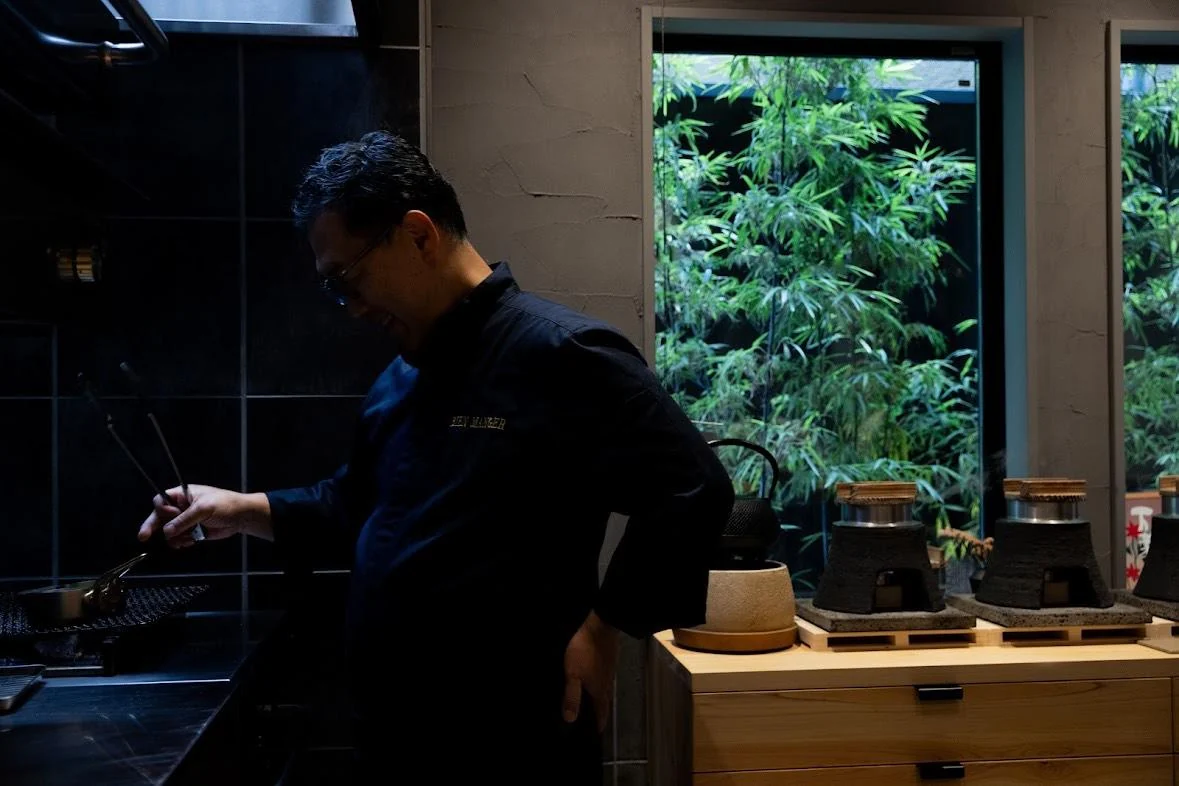
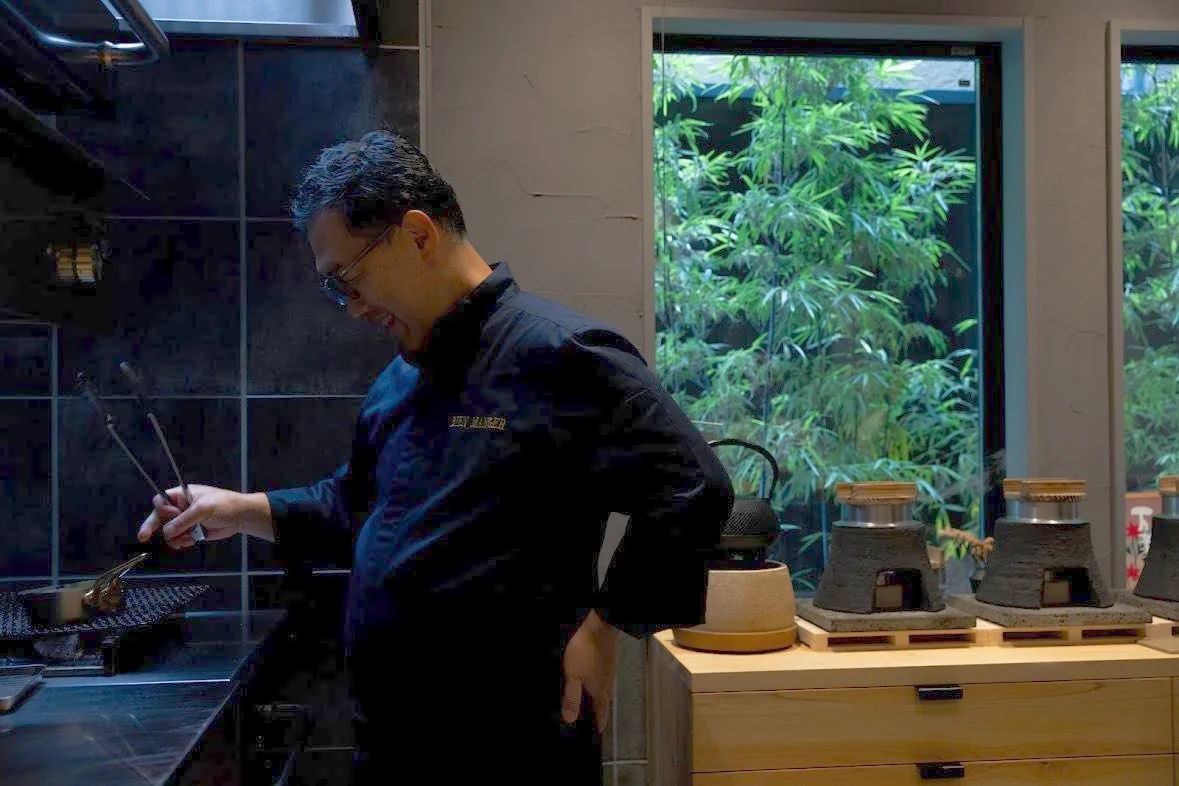
Expand the plasterwork and hinoki counter write-ups; brighten header photo
- Earth wall and kamado: Soukuchikusha, second-generation plasterer
  Kazuma Matsuki, traditional earthen and lime plaster
- Hinoki counter: BROOK, sawmill-based maker using ~80-year-old Owase
  hinoki, milled and finished in-house
- Both now match the chair section in length (JA and EN)
- Lift the shadows of the cuisine header photo so the chef's face shows

Claude-Session: https://claude.ai/code/session_01HpKBhCaMZXoVnUENtuPGPS

diff --git a/public/space/index.html b/public/space/index.html
@@ -60,7 +60,7 @@
           <p class="feature-num">01</p>
           <h3>土壁とかまど</h3>
           <p class="by">左官　蒼築舎　松木 一真（三重・四日市）</p>
-          <p>入口の壁と、ご飯を炊くかまどは左官の手仕事。土の質感が灯りを受け止め、季節の枝ものとともに表情を変えます。<span class="q">紹介文・掲載可否を要確認</span></p>
+          <p>入口の壁と、ご飯を炊くかまどを手がけたのは、三重・四日市の左官職人舎「蒼築舎」の松木一真氏。「現代の名工」として知られる父・松木憲司氏のもとで、土壁や漆喰など自然素材を扱う伝統の技を受け継ぐ二代目です。</p><p>土を練り、コテで一から塗り重ねた壁は、灯りを受けてやわらかな陰影を描き、季節の枝ものとともに表情を変えます。かまどもまた左官の手仕事。土のかまどで炊き上げるご飯が、コースの〆を飾ります。<span class="q">紹介文・掲載可否を要確認</span></p>
         </div>
       </article>
       <article class="feature flip">
@@ -68,8 +68,8 @@
         <div class="reveal">
           <p class="feature-num">02</p>
           <h3>檜のカウンター</h3>
-          <p class="by">檜カウンター・家具　ブルック　坂 社長（三重・四日市）</p>
-          <p>カウンターは檜の一枚板。木目と香りを感じながら、シェフの手元を間近にご覧いただけます。家具も同じ工房の仕立てです。<span class="q">紹介文・掲載可否を要確認</span></p>
+          <p class="by">檜カウンター・家具　BROOK（ブルック）　坂 社長（三重・四日市）</p>
+          <p>カウンターは、三重・四日市の家具店「BROOK（ブルック）」による檜の一枚板。今も製材業を営む材木屋を母体に、三重県尾鷲の山で約80年かけて育ったヒノキを、板選びから製材、工房での加工まで自社で手がけています。</p><p>一本一本違う木の個性を、できるだけそのまま家具に残す。それが BROOK の家具づくりです。木目と香りを間近に感じながら、シェフの手元をご覧いただけます。使うほどに深みを増す色合いも、この店とともに育っていきます。<span class="q">材が尾鷲ヒノキか・紹介文・掲載可否を要確認</span></p>
         </div>
       </article>
       <article class="feature">

diff --git a/public/en/space/index.html b/public/en/space/index.html
@@ -60,7 +60,7 @@
           <p class="feature-num">01</p>
           <h3>Earthen walls and the kamado</h3>
           <p class="by">Plasterwork: Kazuma Matsuki, Soukuchikusha (Yokkaichi, Mie)</p>
-          <p>The entrance wall and the kamado where we cook our rice are the work of a master plasterer. The texture of the clay catches the light and changes with the seasonal branches set against it.<span class="q">to confirm</span></p>
+          <p>The entrance wall and the kamado where we cook our rice are by Kazuma Matsuki of Soukuchikusha, a plastering workshop in Yokkaichi, Mie. The second generation of the workshop, he learned the traditional craft of earthen and lime plaster from his father, Kenji Matsuki, a nationally recognised master plasterer.</p><p>Mixed by hand and built up coat by coat with the trowel, the clay wall catches the light in soft shadows and changes with the seasonal branches set against it. The kamado is plasterwork too: the rice cooked in it closes every course.<span class="q">to confirm</span></p>
         </div>
       </article>
       <article class="feature flip">
@@ -68,8 +68,8 @@
         <div class="reveal">
           <p class="feature-num">02</p>
           <h3>The hinoki counter</h3>
-          <p class="by">Counter and furniture: Brook (Yokkaichi, Mie)</p>
-          <p>The counter is a single slab of hinoki cypress. Sit close to the chef's hands, with the grain and scent of the wood in front of you. The furniture comes from the same workshop.<span class="q">to confirm</span></p>
+          <p class="by">Counter and furniture: BROOK (Yokkaichi, Mie)</p>
+          <p>The counter is a single slab of hinoki cypress by BROOK, a furniture maker in Yokkaichi, Mie, founded on a working sawmill. They take hinoki grown for around 80 years in the mountains of Owase, Mie, and handle every step themselves, from choosing the boards and milling to finishing in their own workshop.</p><p>Their aim is to keep the character of each individual tree in the finished piece. Sit close to the chef's hands, with the grain and scent of the wood in front of you; the wood will deepen in colour over the years, growing along with the restaurant.<span class="q">to confirm</span></p>
         </div>
       </article>
       <article class="feature">

diff --git a/README.md b/README.md
@@ -17,7 +17,7 @@ wrangler.jsonc     Cloudflare 設定
 |---|---|---|
 | `/` トップ | お店の世界観 | 写真カルーセル、コンセプト（店主の言葉・土壁の写真）、各ページへの入口、Instagram |
 | `/cuisine/` 料理とワイン | 何を食べられるか・いくらか | 銘柄和牛ステーキ、魚と前菜、かまど炊きのご飯、コースの流れ、コースと料金の一例、ワイン、ワインセレクションパートナー 深山由佳氏（写真・経歴・メッセージ） |
-| `/space/` 空間と職人 | どんな場所か | 土壁とかまど（蒼築舎）、檜カウンター（ブルック）、椅子（AJIM・川端装飾）、お席（カウンター・テーブル）、しつらえ |
+| `/space/` 空間と職人 | どんな場所か | 土壁とかまど（蒼築舎）、檜カウンター（BROOK）、椅子（AJIM・川端装飾）、お席（カウンター・テーブル）、しつらえ |
 | `/chef/` シェフ | 誰がつくるか | 中西潤也シェフの想い、経歴、店名の意味 |
 | `/guide/` ご来店案内 | どう行くか・何に気をつけるか | 予約方法、営業時間、定休日、服装、アレルギー、お子様、禁煙、キャンセル、支払い、アクセス |
 
